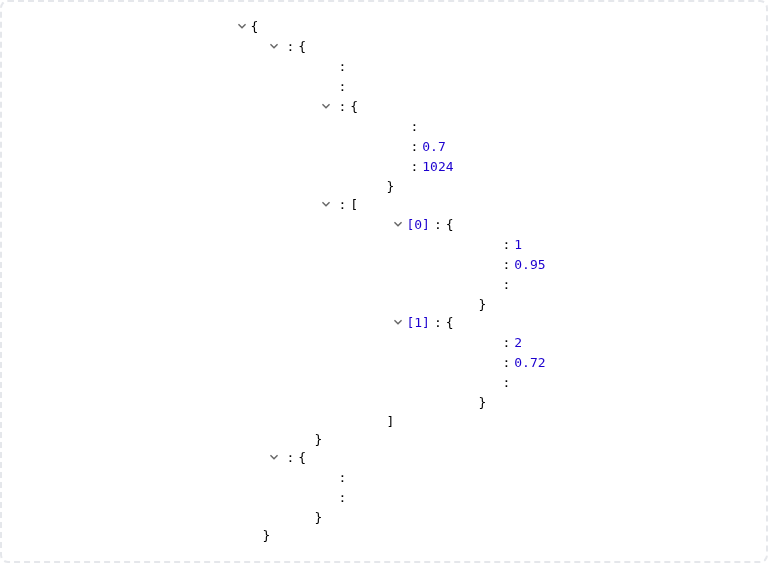
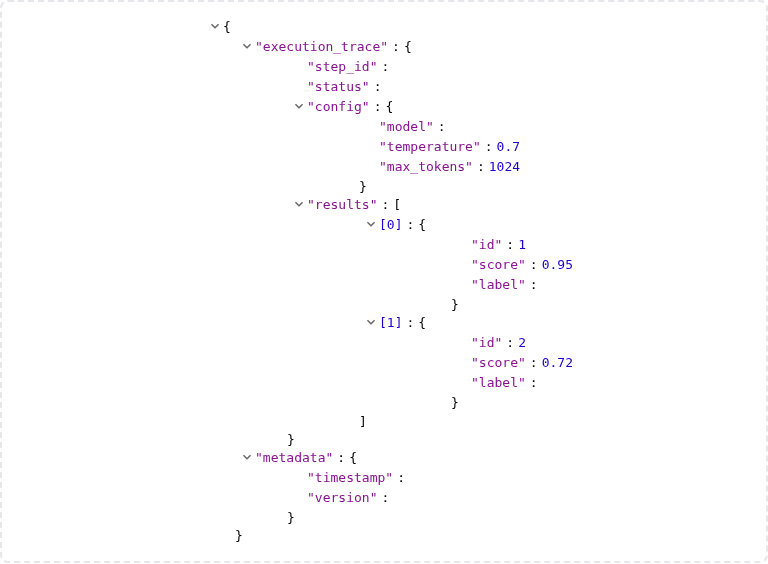
fix(ui): fix DevToolsTree key rendering with proper HTML escaping
The keys were not visible because double quotes in innerHTML attributes
were causing malformed HTML. Fixed by using HTML entities (&quot;) for
the surrounding quotes.

Updated screenshots reflect the fix.

diff --git a/adk_agent_sim/ui/components/devtools_tree.py b/adk_agent_sim/ui/components/devtools_tree.py
@@ -231,8 +231,10 @@ class DevToolsTree:
       display = f"[{key}]"
       color = self._styles["number_color"]
     else:
-      # Object key - render as "key"
-      display = f'"{key}"'
+      # Object key - render as "key" with HTML entities for quotes
+      escaped_key = str(key).replace("&", "&amp;")
+      escaped_key = escaped_key.replace("<", "&lt;").replace(">", "&gt;")
+      display = f"&quot;{escaped_key}&quot;"
       color = self._styles["key_color"]
 
     ui.element("span").classes("devtools-tree-key").style(f"color: {color};").props(
